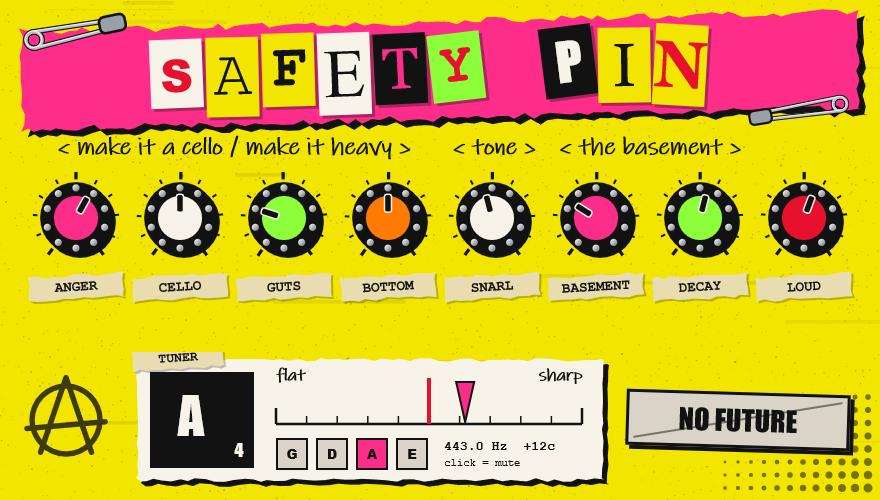
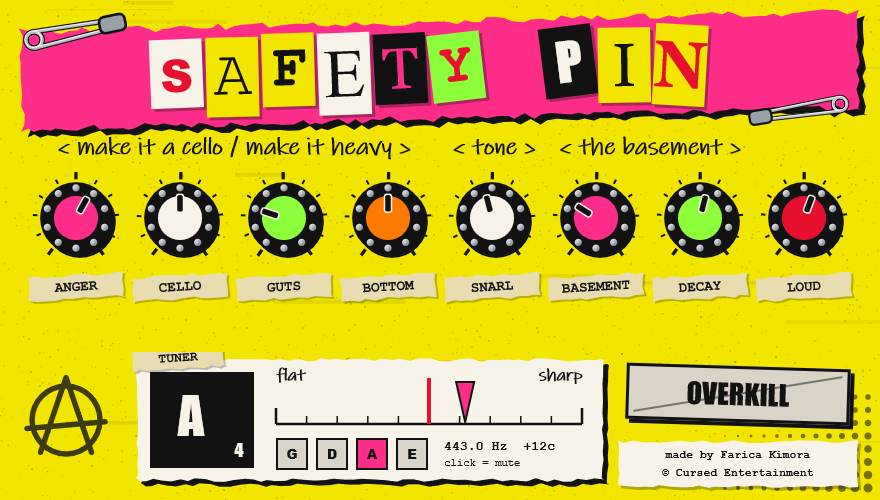
Rename the NO FUTURE switch to OVERKILL

Changed region(s): [[0.675, 0.72, 0.9818, 0.99]]

diff --git a/Source/PluginProcessor.cpp b/Source/PluginProcessor.cpp
@@ -26,7 +26,7 @@ SafetyPinProcessor::SafetyPinProcessor()
     basement = params.getRawParameterValue ("basement");
     decay = params.getRawParameterValue ("decay");
     loud = params.getRawParameterValue ("loud");
-    noFuture = params.getRawParameterValue ("nofuture");
+    overkill = params.getRawParameterValue ("overkill");
 }
 
 juce::AudioProcessorValueTreeState::ParameterLayout SafetyPinProcessor::createLayout()
@@ -42,7 +42,7 @@ juce::AudioProcessorValueTreeState::ParameterLayout SafetyPinProcessor::createLa
     layout.add (std::make_unique<P> (juce::ParameterID { "decay", 1 }, "Decay (reverb length)", juce::NormalisableRange<float> (0, 1), 0.55f, zeroToTen()));
     layout.add (std::make_unique<P> (juce::ParameterID { "loud", 1 }, "Loud (output)", juce::NormalisableRange<float> (-30, 12, 0.1f), -6.0f,
                                      juce::AudioParameterFloatAttributes().withLabel ("dB")));
-    layout.add (std::make_unique<juce::AudioParameterBool> (juce::ParameterID { "nofuture", 1 }, "No Future", false));
+    layout.add (std::make_unique<juce::AudioParameterBool> (juce::ParameterID { "overkill", 1 }, "Overkill", false));
     return layout;
 }
 
@@ -96,7 +96,7 @@ void SafetyPinProcessor::prepareToPlay (double sampleRate, int samplesPerBlock)
     outGain.reset (sr, 0.05);
     drive.setCurrentAndTargetValue (1.0f);
     outGain.setCurrentAndTargetValue (1.0f);
-    filth.setCurrentAndTargetValue (noFuture->load() > 0.5f ? 1.0f : 0.0f);
+    filth.setCurrentAndTargetValue (overkill->load() > 0.5f ? 1.0f : 0.0f);
     guts.setCurrentAndTargetValue (gutsParam->load());
     cello.setCurrentAndTargetValue (celloParam->load());
     wet.setCurrentAndTargetValue (basement->load());
@@ -166,9 +166,9 @@ void SafetyPinProcessor::processBlock (juce::AudioBuffer<float>& buffer, juce::M
         mono.setSize (1, numSamples, false, false, true);      // host sent a bigger block than promised
 
     const auto a = anger->load();
-    const auto nf = noFuture->load() > 0.5f;
-    drive.setTargetValue (juce::Decibels::decibelsToGain (a * 36.0f + (nf ? 12.0f : 0.0f)));
-    filth.setTargetValue (nf ? 1.0f : 0.0f);
+    const auto ok = overkill->load() > 0.5f;
+    drive.setTargetValue (juce::Decibels::decibelsToGain (a * 36.0f + (ok ? 12.0f : 0.0f)));
+    filth.setTargetValue (ok ? 1.0f : 0.0f);
     guts.setTargetValue (gutsParam->load());
     cello.setTargetValue (celloParam->load());
     wet.setTargetValue (basement->load());

diff --git a/Source/PluginEditor.cpp b/Source/PluginEditor.cpp
@@ -41,9 +41,9 @@ SafetyPinEditor::SafetyPinEditor (SafetyPinProcessor& p)
         addAndMakeVisible (k);
         knobAttachments[i] = std::make_unique<AudioProcessorValueTreeState::SliderAttachment> (p.params, knobInfo[i].id, k);
     }
-    addAndMakeVisible (noFuture);
+    addAndMakeVisible (overkill);
     addAndMakeVisible (tunerDisplay);
-    noFutureAttachment = std::make_unique<AudioProcessorValueTreeState::ButtonAttachment> (p.params, "nofuture", noFuture);
+    overkillAttachment = std::make_unique<AudioProcessorValueTreeState::ButtonAttachment> (p.params, "overkill", overkill);
 
     grain = punk::grain (editorWidth, editorHeight);
     setSize (editorWidth, editorHeight);
@@ -59,7 +59,7 @@ void SafetyPinEditor::resized()
     for (int i = 0; i < numKnobs; ++i)
         knobs[i].setBounds (knobLeft + i * knobGap, knobTop, knobSize, knobSize);
     tunerDisplay.setBounds (130, 352, 480, 136);
-    noFuture.setBounds (editorWidth - 262, 358, 240, 72);
+    overkill.setBounds (editorWidth - 262, 358, 240, 72);
 }
 
 void SafetyPinEditor::paint (Graphics& g)

diff --git a/tools/render.cpp b/tools/render.cpp
@@ -92,11 +92,11 @@ int main (int argc, char* argv[])
     const auto input = violin (8.0);
     writeWav (outDir.getChildFile ("in_violin.wav"), input);
 
-    struct Setting { const char* name; float anger, cello, guts, nofuture; };
+    struct Setting { const char* name; float anger, cello, guts, overkill; };
     const Setting settings[] = {
         { "clean_cello", 0.0f, 1.0f, 0.0f, 0.0f },
         { "default", 0.6f, 0.5f, 0.25f, 0.0f },
-        { "no_future", 1.0f, 0.7f, 0.6f, 1.0f },
+        { "overkill", 1.0f, 0.7f, 0.6f, 1.0f },
     };
     for (const auto& s : settings)
     {
@@ -104,7 +104,7 @@ int main (int argc, char* argv[])
         set (p, "anger", s.anger);
         set (p, "cello", s.cello);
         set (p, "guts", s.guts);
-        set (p, "nofuture", s.nofuture);
+        set (p, "overkill", s.overkill);
         p.setPlayConfigDetails (1, 2, rate, blockSize);
         p.prepareToPlay (rate, blockSize);
 

diff --git a/Source/PluginEditor.h b/Source/PluginEditor.h
@@ -17,10 +17,10 @@ public:
 private:
     PunkLook look;
     juce::Slider knobs[numKnobs];
-    juce::ToggleButton noFuture { "NO FUTURE" };
+    juce::ToggleButton overkill { "OVERKILL" };
     TunerDisplay tunerDisplay;
     std::unique_ptr<juce::AudioProcessorValueTreeState::SliderAttachment> knobAttachments[numKnobs];
-    std::unique_ptr<juce::AudioProcessorValueTreeState::ButtonAttachment> noFutureAttachment;
+    std::unique_ptr<juce::AudioProcessorValueTreeState::ButtonAttachment> overkillAttachment;
     juce::Image grain;
 
     JUCE_DECLARE_NON_COPYABLE_WITH_LEAK_DETECTOR (SafetyPinEditor)

diff --git a/Source/PluginProcessor.h b/Source/PluginProcessor.h
@@ -70,7 +70,7 @@ private:
     std::atomic<float>* basement = nullptr;
     std::atomic<float>* decay = nullptr;
     std::atomic<float>* loud = nullptr;
-    std::atomic<float>* noFuture = nullptr;
+    std::atomic<float>* overkill = nullptr;
 
     double sr = 48000.0;
 

diff --git a/README.md b/README.md
@@ -38,7 +38,7 @@ Made by Farica Kimora. &copy; Cursed Entertainment
 | BASEMENT | reverb mix |
 | DECAY | reverb length |
 | LOUD | output level |
-| NO FUTURE | +12 dB and hard clipping |
+| OVERKILL | +12 dB and hard clipping |
 
 **Tuner:** standard violin tuning (G D A E, A = 440 Hz), listening to the clean input before any
 effect. Shows the note, cents and the nearest string; click it to mute the output while tuning.
